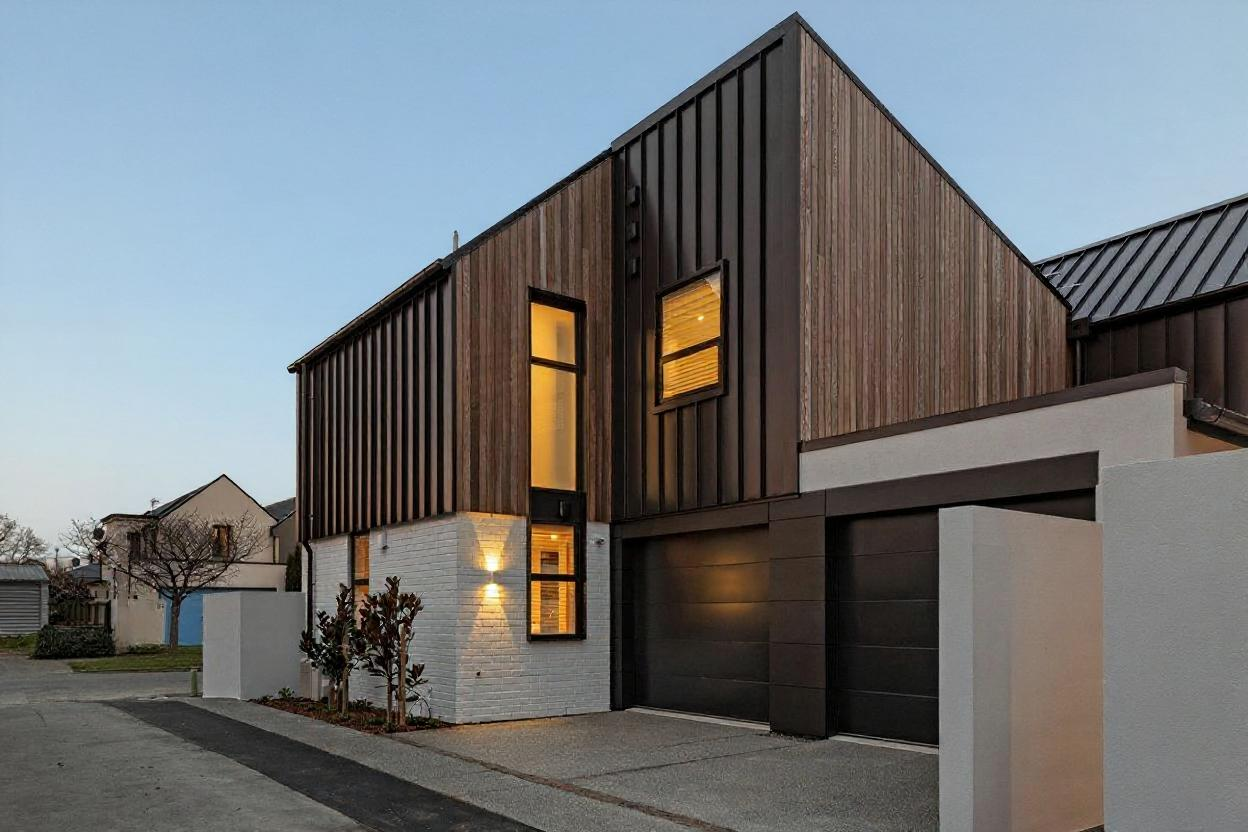
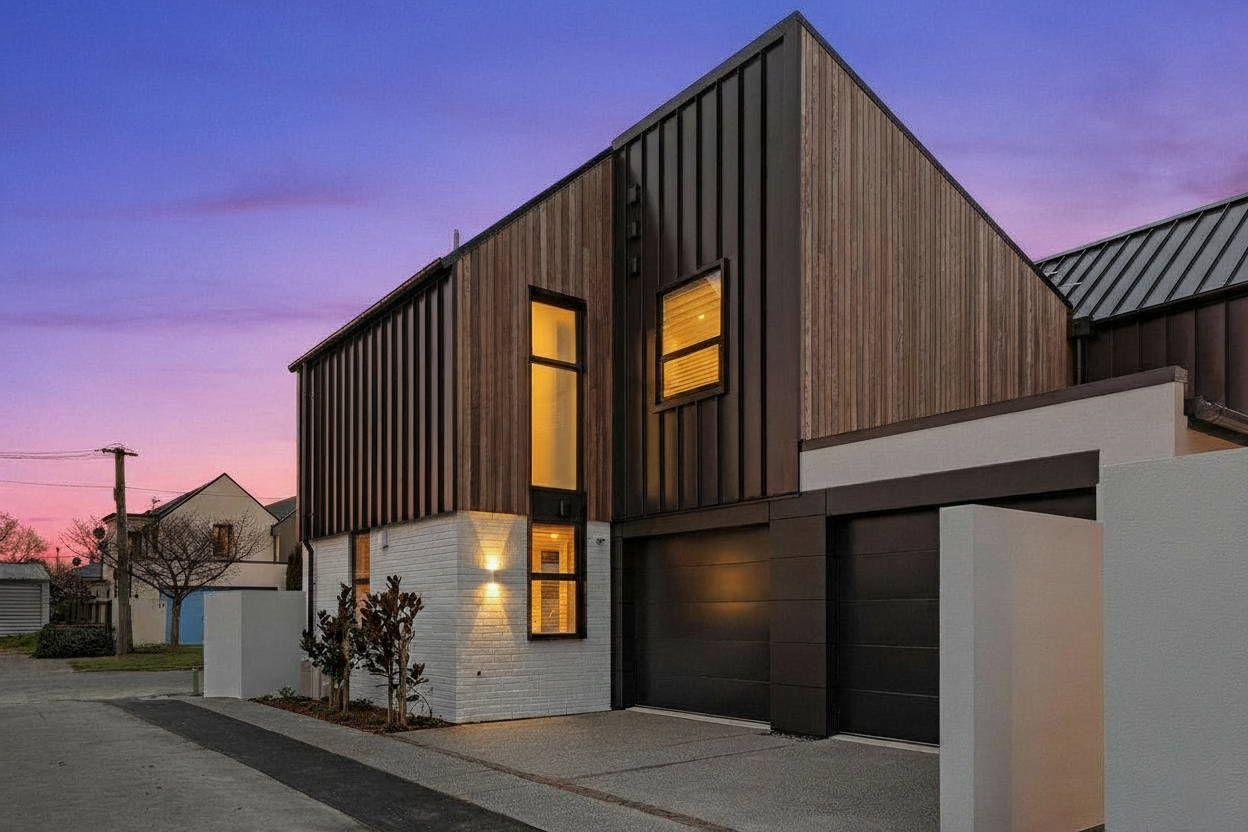
Remove white circle from hero image

diff --git a/src/components/Hero.tsx b/src/components/Hero.tsx
@@ -1,7 +1,7 @@
 import { Button } from '@/components/ui/button';
 import { Check } from 'lucide-react';
 // Using edited image without car
-import heroImage from '@/assets/hero-house-no-car.jpg';
+import heroImage from '@/assets/hero-house-clean.jpg';
 import warrantyBadge from '@/assets/warranty-badge.png';
 
 export const Hero = () => {
